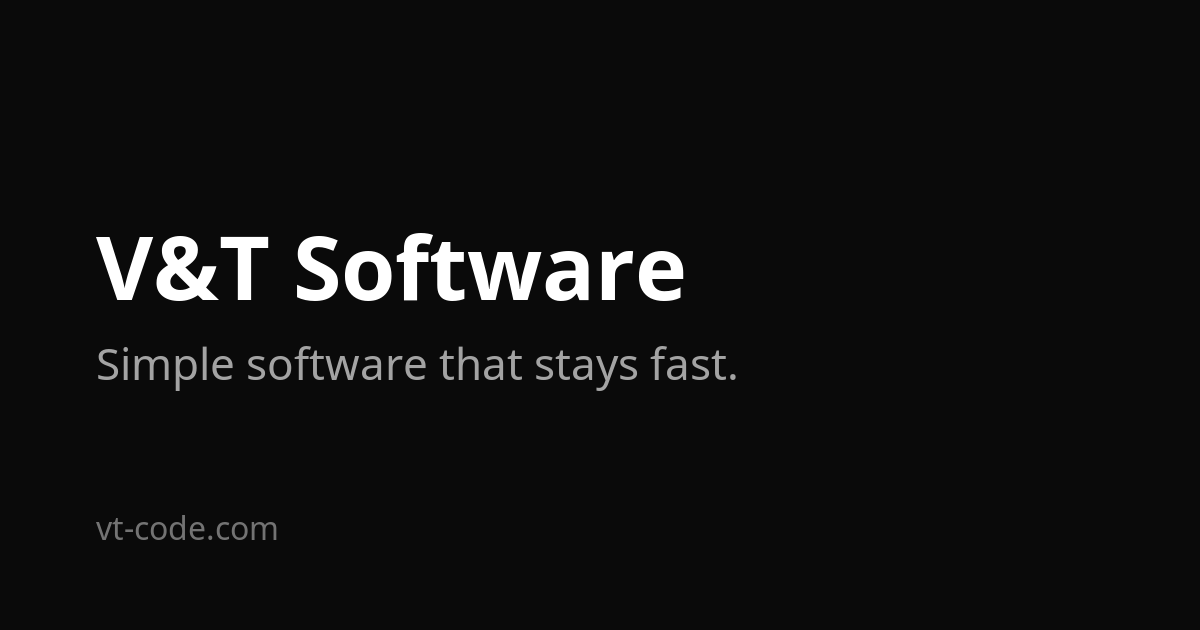
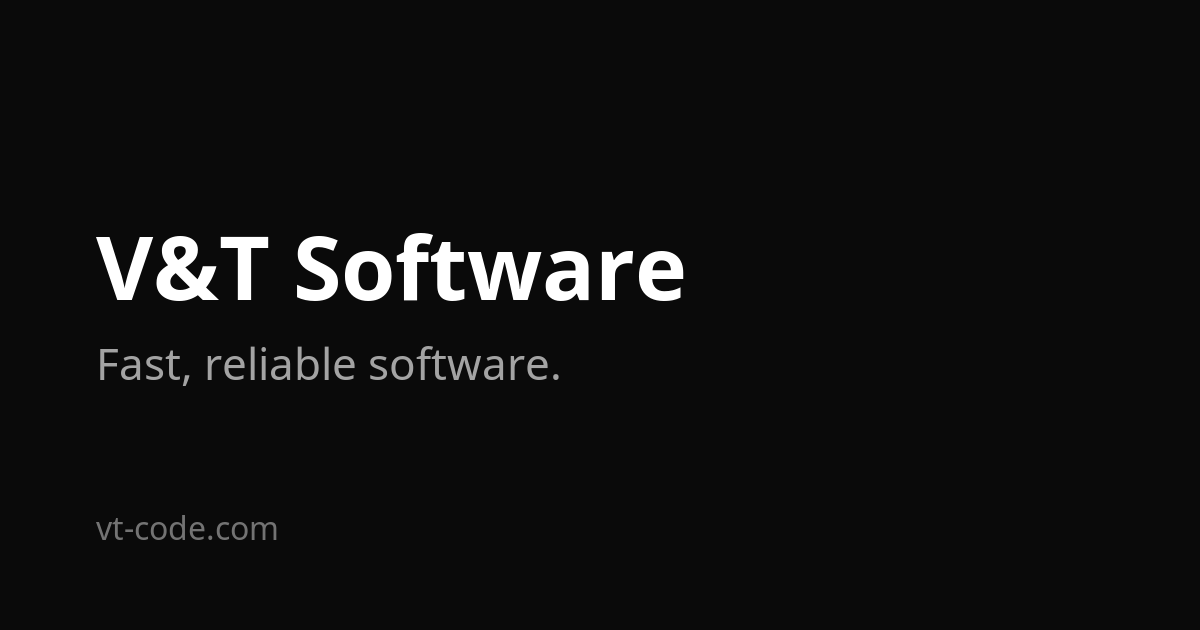
Update link preview to say fast, reliable software

Changed region(s): [[0.0617, 0.5429, 0.4008, 0.6032], [0.4317, 0.5429, 0.6167, 0.6032]]

diff --git a/index.html b/index.html
@@ -4,19 +4,19 @@
     <meta charset="UTF-8" />
     <link rel="icon" type="image/svg+xml" href="/favicon.svg" />
     <meta name="viewport" content="width=device-width, initial-scale=1.0" />
-    <meta name="description" content="We make simple, fast software. Our first app, Nuvio, is a macro tracker that adjusts your goals as you go." />
+    <meta name="description" content="We make fast, reliable software. Our first app, Nuvio, is a macro tracker that adjusts your goals as you go." />
     <meta name="theme-color" content="#0a0a0a" />
-    <title>V&amp;T Software | Simple, Fast Software</title>
+    <title>V&amp;T Software | Fast, Reliable Software</title>
     <link rel="canonical" href="https://vt-code.com/" />
     <meta property="og:type" content="website" />
     <meta property="og:url" content="https://vt-code.com/" />
     <meta property="og:site_name" content="V&amp;T Software" />
-    <meta property="og:title" content="V&amp;T Software | Simple, Fast Software" />
-    <meta property="og:description" content="We make simple, fast software. Our first app, Nuvio, is a macro tracker that adjusts your goals as you go." />
+    <meta property="og:title" content="V&amp;T Software | Fast, Reliable Software" />
+    <meta property="og:description" content="We make fast, reliable software. Our first app, Nuvio, is a macro tracker that adjusts your goals as you go." />
     <meta property="og:image" content="https://vt-code.com/og.png" />
     <meta property="og:image:width" content="1200" />
     <meta property="og:image:height" content="630" />
-    <meta property="og:image:alt" content="V&amp;T Software: Simple software that stays fast." />
+    <meta property="og:image:alt" content="V&amp;T Software: Fast, reliable software." />
     <meta name="twitter:card" content="summary_large_image" />
     <script type="application/ld+json">
       {
@@ -24,7 +24,7 @@
         "@type": "Organization",
         "name": "V&T Software LLC",
         "url": "https://vt-code.com/",
-        "description": "V&T Software LLC builds minimal, fast software."
+        "description": "V&T Software LLC builds fast, reliable software."
       }
     </script>
   </head>
